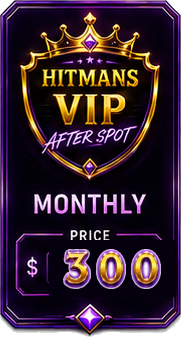
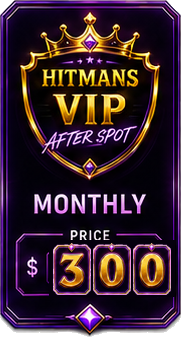
Use the boxed price-digit assets for tier prices (matches odometer slot)
Per the MEMBERSHIP TIERS/PRICING sheet, the card slot is a boxed odometer, so
compose the price from the BOXED digit set (source_02 boxed/stacked version)
instead of the frameless strip (source_16/ui_16). Keeps the card's own '$';
gem-topped digit boxes sit natively in the slot. $20/$100/$300/$1850/$5000.

Claude-Session: https://claude.ai/code/session_01ADwVEMnuAZygKPZ7Pb8UgW

Changed region(s): [[0.2762, 0.7122, 0.9669, 0.8902]]

diff --git a/tools/compose_tier_cards.py b/tools/compose_tier_cards.py
@@ -1,59 +1,38 @@
 #!/usr/bin/env python3
-"""Compose a clean, professional price onto each full tier card using the gold
-digit-glyph assets (source_16) plus a matching gold '$'. Masks the baked
-'88.88' odometer, then lays out '$' + real whole-dollar price with consistent
-height and even spacing, vertically centered in the slot.
+"""Compose the real membership price into each tier card's odometer slot using
+the BOXED price-digit assets (source_02 'boxed/stacked version'), which match
+the card's slot boxes. Keeps the card's own '$', masks the placeholder '88.88',
+and centers the real whole-dollar price. Per the 'MEMBERSHIP TIERS / PRICING'
+design sheet.
 """
-import os, numpy as np
-from PIL import Image, ImageDraw, ImageFont, ImageFilter
+import os, glob, numpy as np
+from PIL import Image, ImageDraw
 
 ROOT = '/home/user/HVAS'
 SRC = f'{ROOT}/assets/ui/complete_ui_set/sliced_clean/by_type/cards'
 DST = f'{ROOT}/hitmans_vip_membership_app/public/assets/ui/complete_ui_set/sliced_clean/by_type/cards'
-FONT = '/usr/share/fonts/truetype/dejavu/DejaVuSans-Bold.ttf'
 
-GLYPH = {'0':'source_16_001_198x257','1':'source_16_002_131x262','2':'source_16_003_181x259',
-         '3':'source_16_004_184x258','4':'source_16_005_210x257','5':'source_16_006_185x258',
-         '6':'source_16_010_195x257','7':'source_16_007_189x256','8':'source_16_008_194x261',
-         '9':'source_16_009_192x258'}
+# boxed digit assets (source_02 063..072 = 0..9)
+BOX = {'0':'063','1':'064','2':'065','3':'066','4':'067','5':'068','6':'069','7':'070','8':'071','9':'072'}
 
 def _tight(im):
     a = np.array(im); ys, xs = np.where(a[:, :, 3] > 30)
     return im.crop((xs.min(), ys.min(), xs.max()+1, ys.max()+1))
 
 _cache = {}
-def glyph(ch):
+def boxed(ch):
     if ch not in _cache:
-        _cache[ch] = _tight(Image.open(f'{SRC}/{GLYPH[ch]}.png').convert('RGBA'))
+        f = glob.glob(f'{SRC}/source_02_{BOX[ch]}_*.png')[0]
+        _cache[ch] = _tight(Image.open(f).convert('RGBA'))
     return _cache[ch]
-
-def dollar():
-    """A gold '$' with a purple neon glow to match the digit glyphs."""
-    if '$' in _cache:
-        return _cache['$']
-    h = 240
-    font = ImageFont.truetype(FONT, h)
-    W, H = h, int(h * 1.5)
-    core = Image.new('RGBA', (W, H), (0, 0, 0, 0))
-    ImageDraw.Draw(core).text((W//2, H//2), '$', font=font, anchor='mm',
-                              fill=(255, 206, 74, 255), stroke_width=max(4, h//22), stroke_fill=(74, 26, 104, 255))
-    glow = Image.new('RGBA', (W, H), (0, 0, 0, 0))
-    ImageDraw.Draw(glow).text((W//2, H//2), '$', font=font, anchor='mm',
-                              fill=(178, 96, 255, 255), stroke_width=max(8, h//10), stroke_fill=(178, 96, 255, 255))
-    glow = glow.filter(ImageFilter.GaussianBlur(h//16))
-    _cache['$'] = _tight(Image.alpha_composite(glow, core))
-    return _cache['$']
 
 CARDS = {
     'source_01_025_183x338': 20, 'source_01_026_183x338': 100, 'source_01_027_181x337': 300,
     'source_01_028_181x337': 1850, 'source_01_029_179x337': 5000,
 }
-# keep the card's own baked purple '$' (x~28-46); mask + fill only the digit
-# boxes to its right, then lay the real digits just after the '$'.
-MX0, MY0, MX1, MY1 = 49, 240, 174, 296
-RX0, RX1, RY0, RY1 = 55, 170, 246, 292
-GAP = 5
-MAXH = 40
+MX0, MY0, MX1, MY1 = 49, 240, 174, 296   # mask (keeps the card's '$' at ~x28-46)
+RX0, RX1, RY0, RY1 = 53, 171, 243, 295   # region for the boxed digits
+GAP = 2
 
 def slot_bg(arr):
     reg = arr[MY0:MY1, MX0:MX1, :3].reshape(-1, 3)
@@ -68,18 +47,18 @@ for name, price in CARDS.items():
     card.alpha_composite(d)
 
     region_w, region_h = RX1 - RX0, RY1 - RY0
-    digits = [glyph(c) for c in str(price)]
+    digits = [boxed(c) for c in str(price)]
     def total_w(hh):
-        return sum(int(g.width * (hh / g.height)) for g in digits) + GAP * (len(digits) - 1)
-    h = min(MAXH, region_h - 4)
+        return sum(int(g.width * hh / g.height) for g in digits) + GAP * (len(digits) - 1)
+    h = region_h
     if total_w(h) > region_w:
         h = int(h * region_w / total_w(h))
     items = [g.resize((max(1, int(g.width * h / g.height)), h)) for g in digits]
     tw = sum(im.width for im in items) + GAP * (len(items) - 1)
-    x = RX0 + max(0, (region_w - tw) // 2)   # centered in the digit region
-    baseline = RY0 + (region_h + h) // 2
+    x = RX0 + (region_w - tw) // 2
+    y = RY0 + (region_h - h) // 2
     for im in items:
-        card.alpha_composite(im, (x, baseline - im.height))
+        card.alpha_composite(im, (x, y))
         x += im.width + GAP
     card.save(f'{DST}/{name}.png')
-    print(f'{name}: ${price}  h={h}')
+    print(f'{name}: ${price}  boxh={h}')
